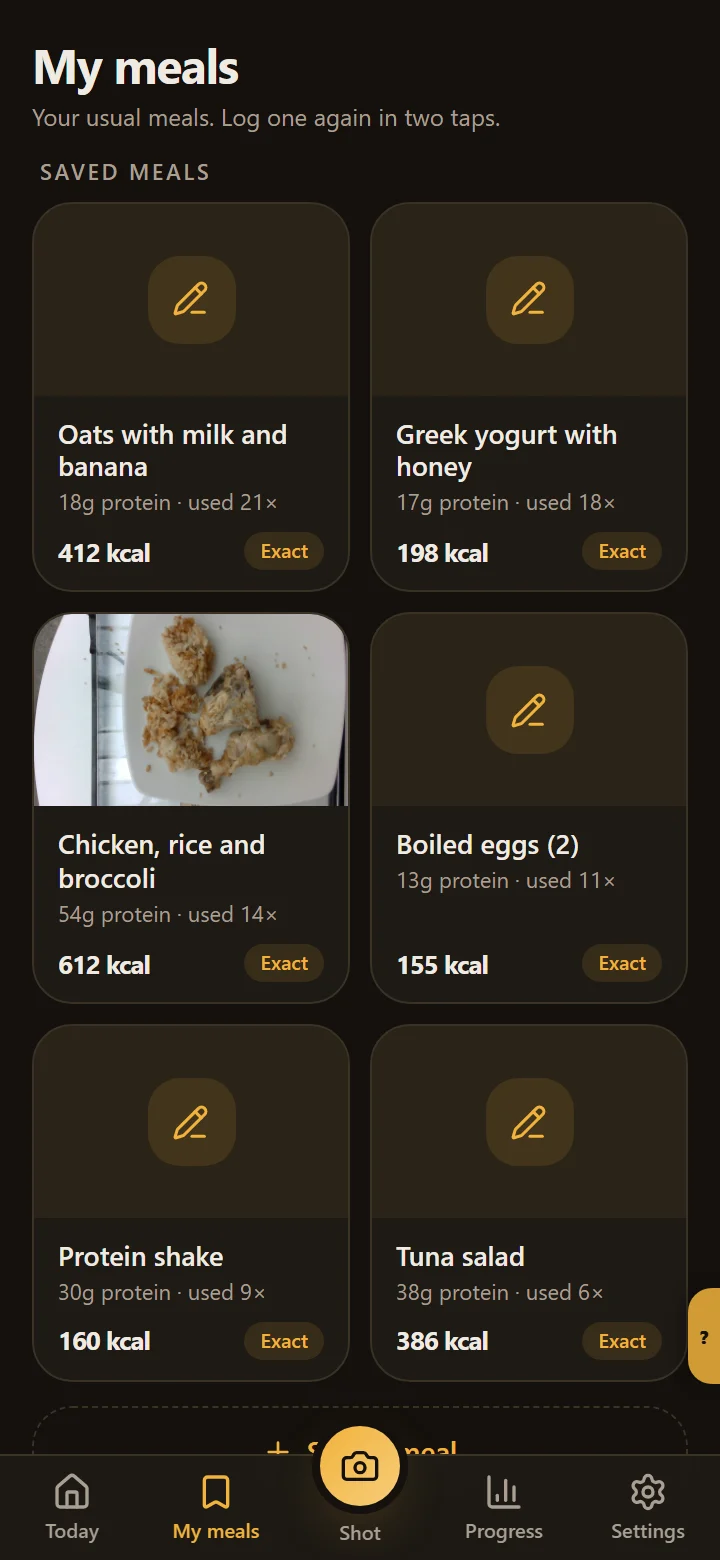
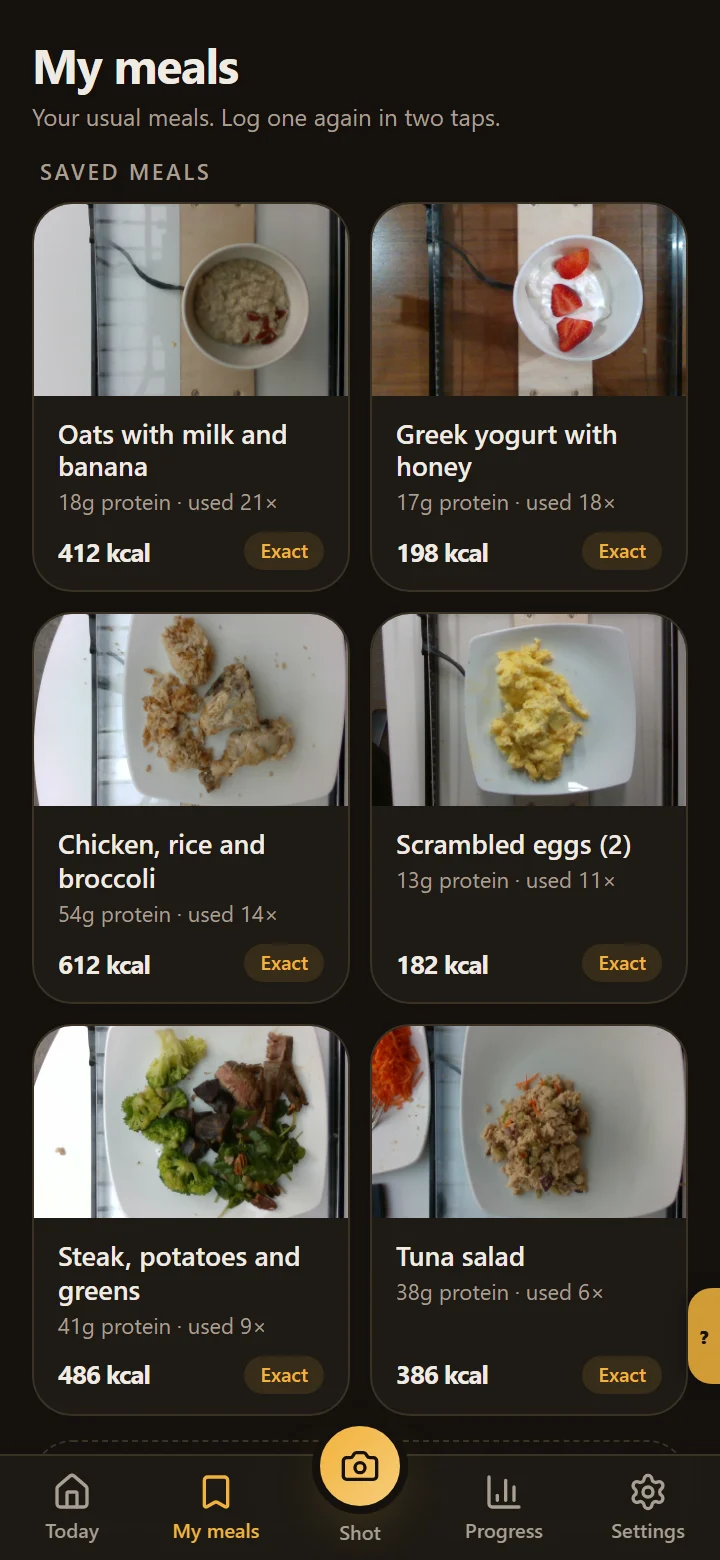
feat(site): nutrition 0.1.6 screens with complete meals: salmon in the Shot summary, a photo on every meal
Replaces the Shot summary, Today and My meals screenshots and updates their alt text.

diff --git a/src/lib/content.ts b/src/lib/content.ts
@@ -85,7 +85,7 @@ export const screenshots = [
     id: "today",
     file: "ironbuddy-nutrition-today-calories-protein.webp",
     label: "Today",
-    alt: "IronBuddy Nutrition calorie counter Today screen: 391 kcal left of 2,040, 35g of protein to go, meals each marked Exact or Estimate, a plate photo next to the meal it was logged from",
+    alt: "IronBuddy Nutrition calorie counter Today screen: 391 kcal left of 2,040, 35g of protein to go, meals each marked Exact or Estimate, a plate photo next to each meal it was logged from",
     width: 720,
     height: 1560,
     carousel: true,
@@ -104,7 +104,7 @@ export const screenshots = [
     id: "photo",
     file: "ironbuddy-nutrition-photo-portion-oil.webp",
     label: "Photo of Your Plate",
-    alt: "Photo food logging, the last step of Shot: your dinner from the plate photo, boiled broccoli 80g and a tablespoon of olive oil, about 147 kcal as an Estimate, checked before it is logged",
+    alt: "Photo food logging, the last step of Shot: your dinner from the plate photo, roasted salmon 150g, boiled broccoli 80g and a tablespoon of olive oil, about 468 kcal as an Estimate, checked before it is logged",
     width: 720,
     height: 1560,
     carousel: true,
@@ -159,7 +159,7 @@ export const screenshots = [
     id: "meals",
     file: "ironbuddy-nutrition-saved-meals.webp",
     label: "My Meals",
-    alt: "My meals as cards: saved meals logged again in two taps, oats with milk and banana, Greek yogurt with honey, chicken, rice and broccoli with its plate photo, all Exact",
+    alt: "My meals as cards: saved meals logged again in two taps, six cards, each with its plate photo: oats with milk and banana, Greek yogurt with honey, chicken, rice and broccoli, scrambled eggs (2), steak, potatoes and greens, tuna salad, all Exact",
     width: 720,
     height: 1560,
     carousel: true,

diff --git a/src/lib/pages.ts b/src/lib/pages.ts
@@ -57,7 +57,7 @@ export const pages = {
     summary: "The offline calorie and macro tracker: photo, barcode or scale, honest numbers, pay once.",
     keywords: { main: "offline calorie counter", supporting: ["macro tracker", "barcode scanner", "photo food logging"] },
     published: LAUNCH,
-    modified: KEYWORD_MAP,
+    modified: V016,
     images: screenshotImages,
   },
   support: {
